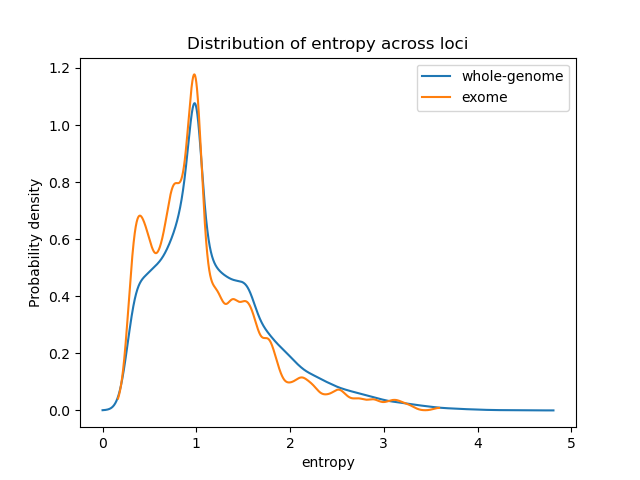
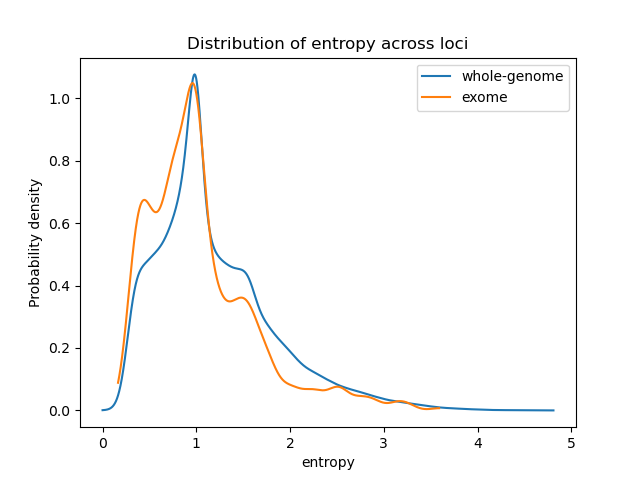
Compiled hipstr locally. Compared het to entropy, seems roughly equivalent. Filtered entropy exome STRs which are not fully contained in the exome. Subsetted the hipstr reference panel to only include exome STRs that were included in SNPSTR. Still need to subset that to only include STRs that are fu

diff --git a/side_analyses/entropy/filter_exome.py b/side_analyses/entropy/filter_exome.py
@@ -1,0 +1,74 @@
+"""
+Exome files include all STR variants in the SNPSTR vcfs that intersect with the
+exonic regions even if the intersection is only flanking indels
+Instead, filter to STRs that are wholly contained within the exonic region
+
+cat chr*tab | awk '{print $1 " " $2}' | sort | uniq -c | sort
+demonstrates that all exome starting positions are correctly unique
+so I can index off of that
+"""
+
+import argparse
+import os
+import subprocess as sp
+import sys
+
+ukb = os.environ['UKB']
+
+def main():
+    parser = argparse.ArgumentParser()
+    parser.add_argument("--het", action="store_true")
+
+    args = parser.parse_args()
+
+    indir = f'{ukb}/side_analyses/entropy/exome'
+    outdir = f'{ukb}/side_analyses/entropy/exome_filtered'
+    if args.het:
+        indir += '_het'
+        outdir += '_het'
+
+    sp.run(f"cp {indir}/README.txt {outdir}", shell=True)
+
+    for chrom in range(1, 23):
+        chrom = str(chrom)
+        with open(f'{indir}/chr{chrom}.tab') as infile, \
+             open(f'{outdir}/chr{chrom}.tab', 'w') as outfile:
+            first = True
+            nvariants = 0
+            for inline in infile:
+                if first:
+                    # header
+                    outfile.write(inline)
+                    first = False
+                    continue
+                nvariants += 1
+                print(f"Working on chr {chrom} variant {nvariants}",
+                      end='\r')
+                pos = inline.split()[1]
+                command = f'''
+                    source ~/.bashrc ;
+                    conda activate ukb ; 
+                    bcftools query -f '%INFO/START %INFO/END\\n' -r {chrom}:{pos} \\
+                        {ukb}/snpstr/info_field/chr{chrom}.vcf.gz 
+                    '''
+                out = sp.run(command, shell=True, capture_output=True, text=True)
+                if out.stderr:
+                    print(out.stderr)
+                    sys.exit()
+                str_start, str_end = out.stdout.split()
+                str_start = int(str_start)
+                str_end = int(str_end)
+                with open(f'{ukb}/side_analyses/exome_strs/hg19_final.bed') as exome_bed:
+                    for rline in exome_bed:
+                        rchrom, rstart, rend = rline.split()
+                        rstart = int(rstart)
+                        rend = int(rend)
+                        if rchrom != chrom:
+                            continue
+                        if rend > str_start:
+                            if rstart < str_start and str_end < rend:
+                                outfile.write(inline)
+                            break
+
+if __name__ == "__main__":
+    main()

diff --git a/side_analyses/entropy/combine.py b/side_analyses/entropy/combine.py
@@ -1,3 +1,4 @@
+import argparse
 import os
 
 """
@@ -9,17 +10,27 @@ most of the entries in the later are nan (for loci not in the exome)
 ukb = os.environ['UKB']
 basedir = f"{ukb}/side_analyses/entropy"
 
+parser = argparse.ArgumentParser()
+parser.add_argument('--het', action='store_true')
+args = parser.parse_args()
+het = ""
+if args.het:
+    het = "_het"
+
 for chrom in range(1, 23):
-    with open(f"{basedir}/full_genome/chr{chrom}.tab") as full_genome, \
-            open(f"{basedir}/exome/chr{chrom}.tab") as exome, \
-            open(f"{basedir}/combined/chr{chrom}.tab", 'w') as combined:
+    with open(f"{basedir}/full_genome{het}/chr{chrom}.tab") as full_genome, \
+            open(f"{basedir}/exome_filtered{het}/chr{chrom}.tab") as exome, \
+            open(f"{basedir}/combined{het}/chr{chrom}.tab", 'w') as combined:
         genome_iter = iter(full_genome)
         exome_iter = iter(exome)
         genome_line = next(genome_iter)
         exome_line = next(exome_iter)
         #header
         combined.write(genome_line[:-1])
-        combined.write("-whole-genome\tentropy-exome\n")
+        if not args.het:
+            combined.write("-whole-genome\tentropy-exome\n")
+        else:
+            combined.write("-whole-genome\thet-exome\n")
         genome_line = next(genome_iter)
         exome_line = next(exome_iter)
 
